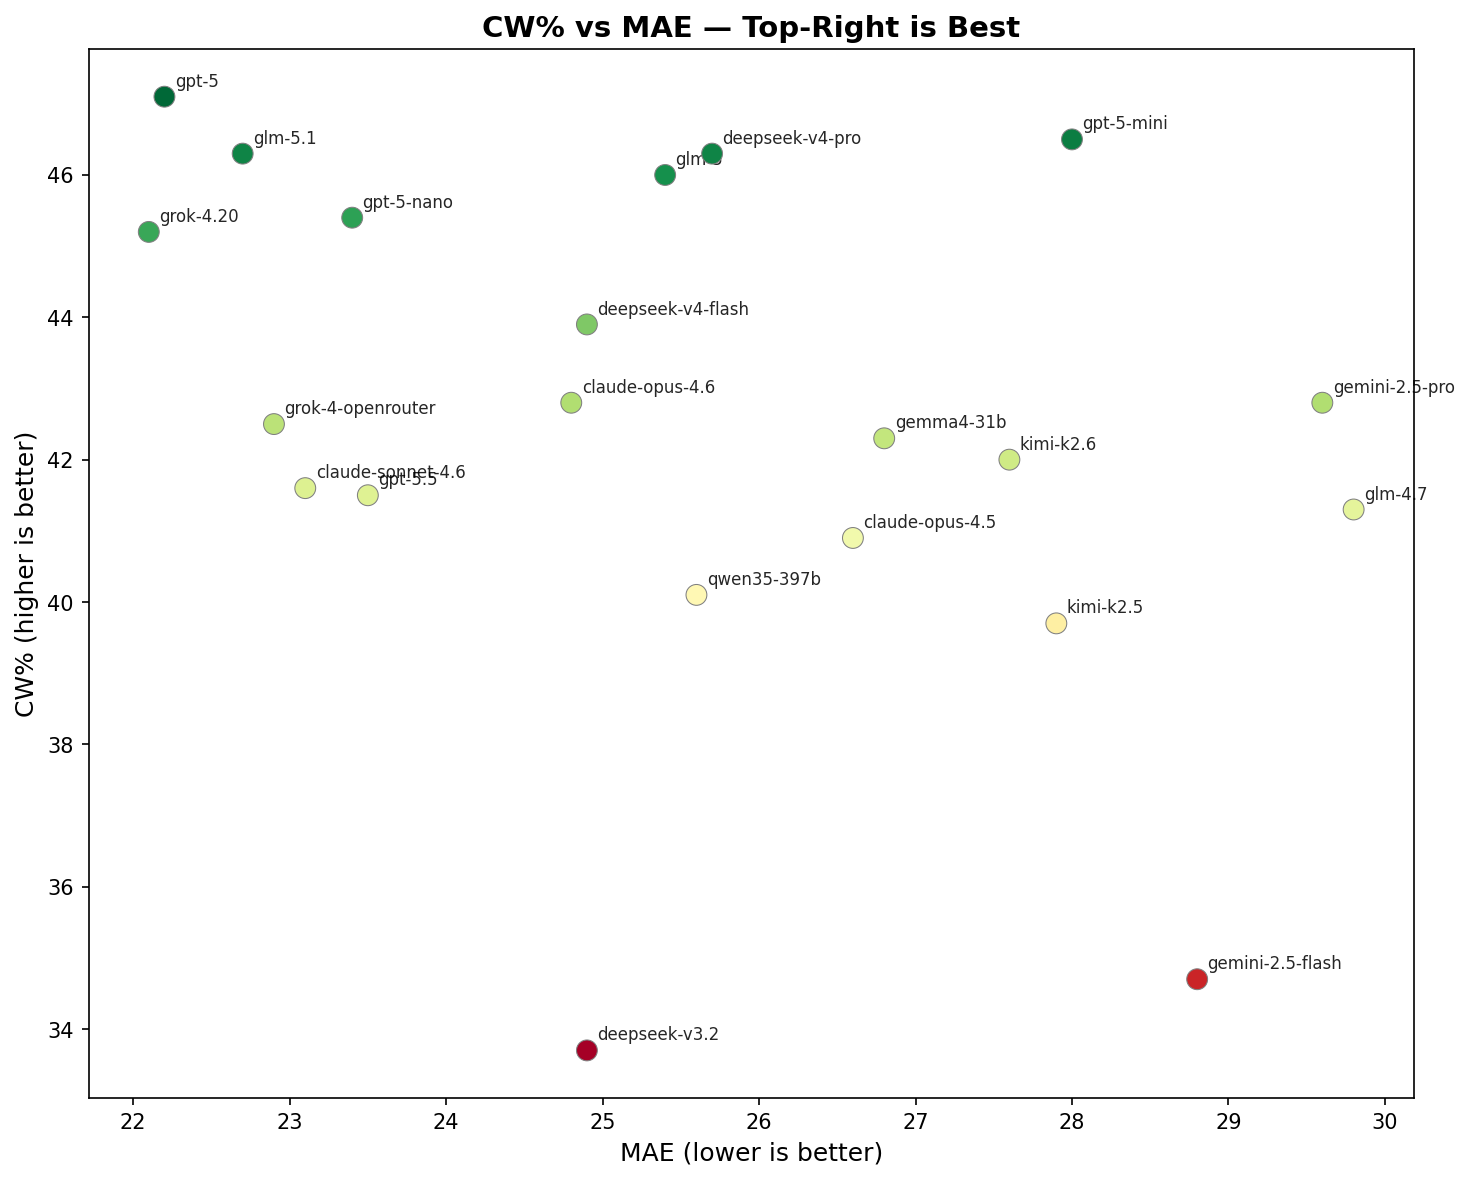
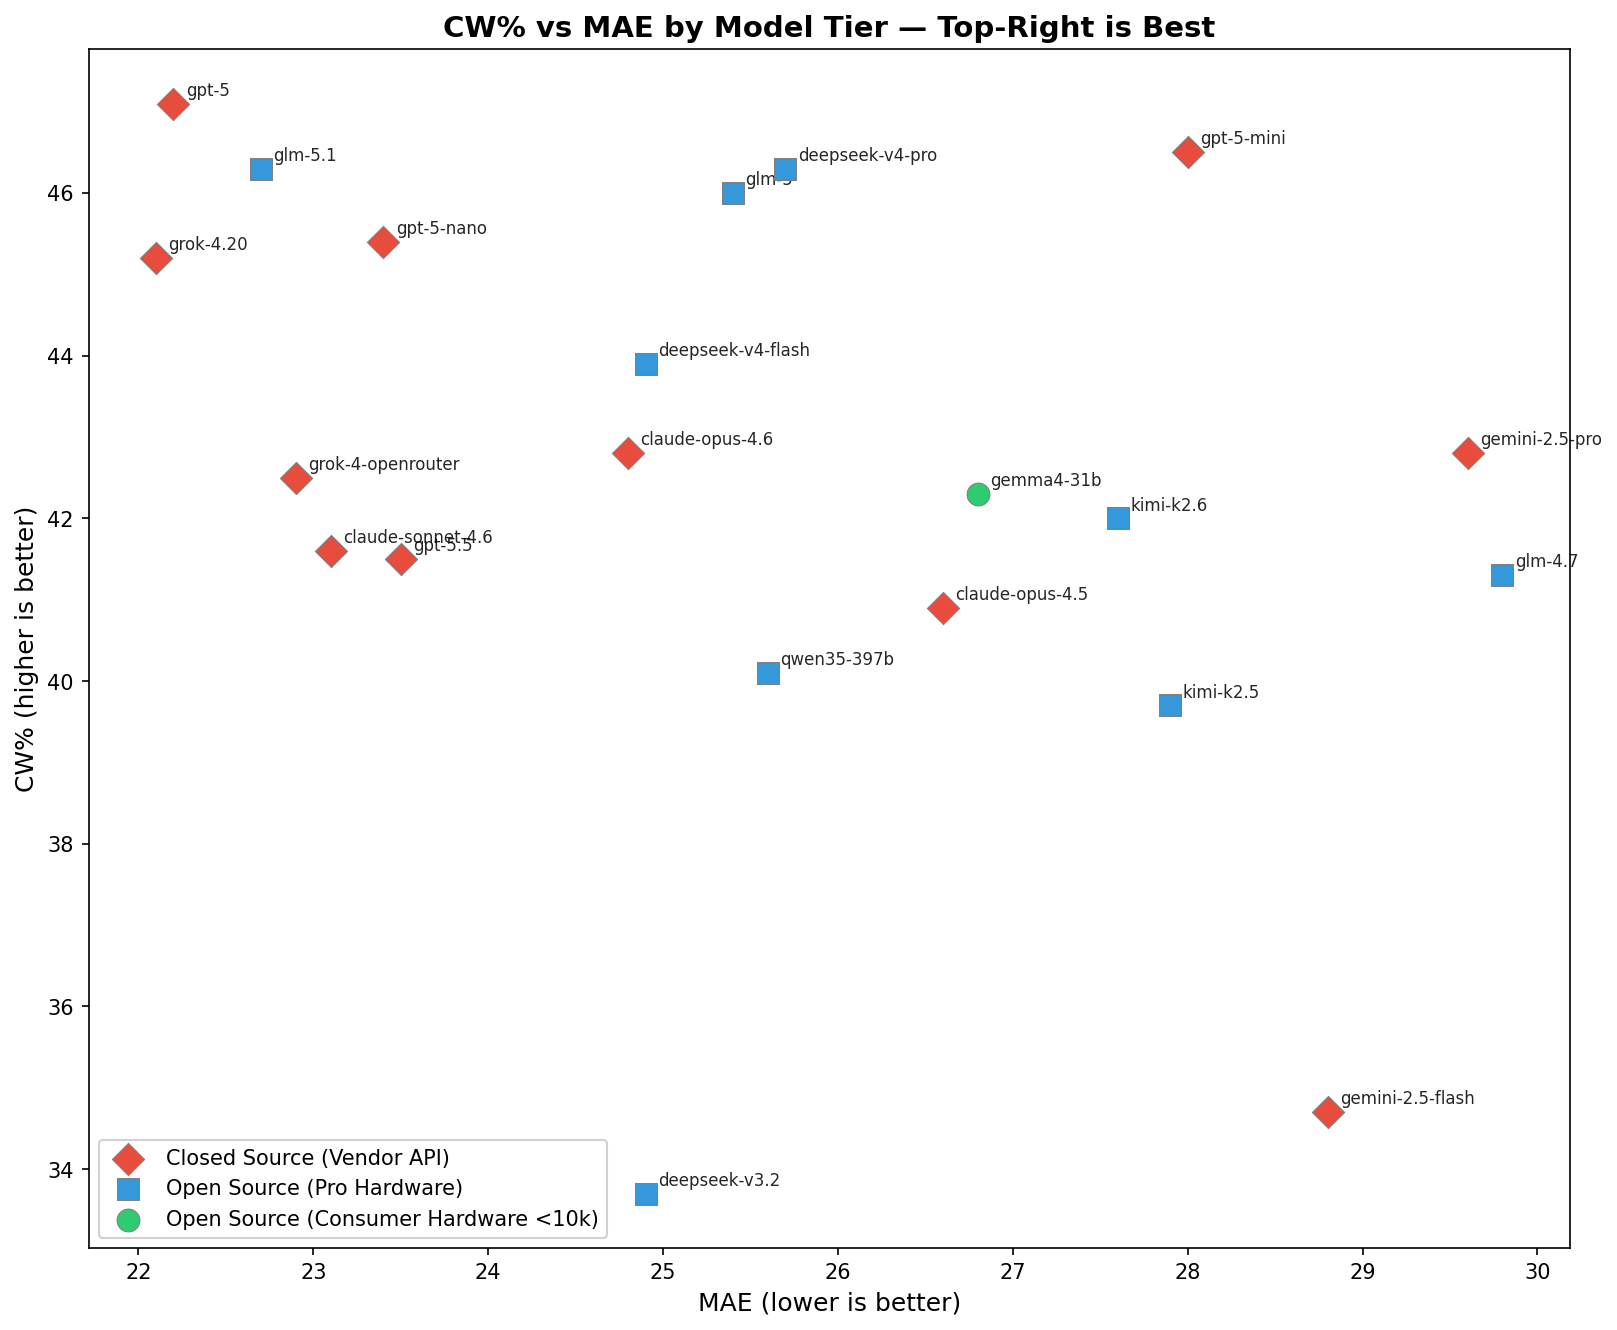
Add model tier categories and per-tier charts
- 3 tiers: Closed Source (vendor APIs), Open Source Pro, Open Source Consumer (<10k)
- Combined charts now color-coded and marker-differentiated by tier
- 6 new per-tier charts (CW% and MAE for each tier)
- Added model_tiers.json for tier definitions

diff --git a/scripts/generate_charts.py b/scripts/generate_charts.py
@@ -1,28 +1,27 @@
 #!/usr/bin/env python3
-"""Generate leaderboard charts for THOR AI Benchmarks."""
+"""Generate leaderboard charts for THOR AI Benchmarks with model tier markers."""
 
 import json
 import csv
 import sys
 from pathlib import Path
 
-try:
-    import matplotlib
-    matplotlib.use('Agg')
-    import matplotlib.pyplot as plt
-    import matplotlib.ticker as ticker
-    import numpy as np
-except ImportError:
-    print("matplotlib + numpy required: pip install matplotlib numpy")
-    sys.exit(1)
+import matplotlib
+matplotlib.use('Agg')
+import matplotlib.pyplot as plt
+import matplotlib.patches as mpatches
+import numpy as np
 
-# Load data
-combined_dir = Path(__file__).parent.parent / "combined"
+# Paths
+repo_root = Path(__file__).resolve().parent.parent
+combined_dir = repo_root / "combined"
 csv_path = combined_dir / "leaderboard.csv"
 json_path = combined_dir / "leaderboard.json"
-charts_dir = Path(__file__).parent.parent / "charts"
+charts_dir = repo_root / "charts"
 charts_dir.mkdir(exist_ok=True)
+tiers_path = Path(__file__).resolve().parent / "model_tiers.json"
 
+# Load data
 if json_path.exists():
     with open(json_path) as f:
         models = json.load(f)
@@ -36,7 +35,18 @@ else:
     print("No leaderboard data found")
     sys.exit(1)
 
-# Convert types
+# Load tiers
+with open(tiers_path) as f:
+    tiers_config = json.load(f)["tiers"]
+
+# Build tier lookup
+tier_lookup = {}
+tier_names = list(tiers_config.keys())
+for tier_key, tier_data in tiers_config.items():
+    for m in tier_data["models"]:
+        tier_lookup[m] = tier_key
+
+# Convert types and assign tiers
 for m in models:
     m['rank'] = int(m.get('rank', 0))
     m['cw_pct'] = float(m['cw_pct'])
@@ -47,72 +57,162 @@ for m in models:
     m['minor'] = int(m.get('minor', 0))
     m['hard'] = int(m.get('hard', 0))
     m['n'] = int(m.get('n', 0))
+    m['tier'] = tier_lookup.get(m['model'], 'closed_source')
 
 # Sort by CW% descending
 models.sort(key=lambda x: x['cw_pct'], reverse=True)
 
-# ── Chart 1: CW% Leaderboard ──────────────────────────────────
-fig, ax = plt.subplots(figsize=(12, 8))
+def tier_style(tier_key):
+    t = tiers_config[tier_key]
+    return t['color'], t['marker'], t['label']
+
+def tier_models(models_list, tier_key):
+    return [m for m in models_list if m['tier'] == tier_key]
+
+# ── Chart 1: CW% Leaderboard (with tier colors) ──────────────
+fig, ax = plt.subplots(figsize=(14, 9))
 names = [m['model'] for m in models]
 cw = [m['cw_pct'] for m in models]
-colors = plt.cm.RdYlGn([v/100 for v in cw])
+bar_colors = [tiers_config[m['tier']]['color'] for m in models]
 
-bars = ax.barh(range(len(names)), cw, color=colors, edgecolor='white', linewidth=0.5)
+bars = ax.barh(range(len(names)), cw, color=bar_colors, edgecolor='white', linewidth=0.5)
 ax.set_yticks(range(len(names)))
 ax.set_yticklabels(names, fontsize=10)
 ax.invert_yaxis()
 ax.set_xlabel('Confidence-Weighted Score (%)', fontsize=12)
-ax.set_title('THOR Finding Triage — CW% Leaderboard', fontsize=14, fontweight='bold')
+ax.set_title('THOR Finding Triage — CW% Leaderboard by Model Tier', fontsize=14, fontweight='bold')
 ax.set_xlim(0, 55)
 
 for i, (bar, val) in enumerate(zip(bars, cw)):
     ax.text(val + 0.5, i, f'{val:.1f}%', va='center', fontsize=9, fontweight='bold')
 
+# Legend
+legend_patches = [mpatches.Patch(color=tiers_config[t]['color'], label=tiers_config[t]['label']) for t in tier_names]
+ax.legend(handles=legend_patches, loc='lower right', fontsize=10, framealpha=0.9)
+
 plt.tight_layout()
 fig.savefig(charts_dir / 'cw-leaderboard.png', dpi=150, bbox_inches='tight')
-print(f"✓ {charts_dir / 'cw-leaderboard.png'}")
+print(f"✓ cw-leaderboard.png")
 
-# ── Chart 2: CW% vs MAE Scatter ───────────────────────────────
-fig, ax = plt.subplots(figsize=(10, 8))
-cw_vals = [m['cw_pct'] for m in models]
-mae_vals = [m['mae'] for m in models]
-scatter = ax.scatter(mae_vals, cw_vals, s=100, c=cw_vals, cmap='RdYlGn', edgecolors='gray', linewidths=0.5, zorder=5)
+# ── Chart 2: CW% vs MAE Scatter (with tier markers) ───────────
+fig, ax = plt.subplots(figsize=(11, 9))
 
-for m in models:
-    ax.annotate(m['model'], (m['mae'], m['cw_pct']),
-                textcoords="offset points", xytext=(5, 5), fontsize=8,
-                alpha=0.85)
+for tier_key in tier_names:
+    tm = tier_models(models, tier_key)
+    if not tm:
+        continue
+    color, marker, label = tier_style(tier_key)
+    ax.scatter(
+        [m['mae'] for m in tm],
+        [m['cw_pct'] for m in tm],
+        s=120, c=color, marker=marker, label=label,
+        edgecolors='gray', linewidths=0.5, zorder=5
+    )
+    for m in tm:
+        ax.annotate(m['model'], (m['mae'], m['cw_pct']),
+                    textcoords="offset points", xytext=(6, 4), fontsize=8, alpha=0.85)
 
 ax.set_xlabel('MAE (lower is better →)', fontsize=12)
 ax.set_ylabel('CW% (higher is better ↑)', fontsize=12)
-ax.set_title('CW% vs MAE — Top-Right is Best', fontsize=14, fontweight='bold')
-ax.axhline(y=50, color='gray', linestyle='--', alpha=0.3)
+ax.set_title('CW% vs MAE by Model Tier — Top-Right is Best', fontsize=14, fontweight='bold')
+ax.legend(loc='lower left', fontsize=10, framealpha=0.9)
+ax.axhline(y=45, color='gray', linestyle='--', alpha=0.3)
 ax.axvline(x=25, color='gray', linestyle='--', alpha=0.3)
 
 plt.tight_layout()
 fig.savefig(charts_dir / 'cw-vs-mae.png', dpi=150, bbox_inches='tight')
-print(f"✓ {charts_dir / 'cw-vs-mae.png'}")
+print(f"✓ cw-vs-mae.png")
 
-# ── Chart 3: Classification Accuracy Breakdown ──────────────────
-fig, ax = plt.subplots(figsize=(12, 8))
+# ── Chart 3: Classification Breakdown (with tier colors) ──────
+fig, ax = plt.subplots(figsize=(14, 9))
 y_pos = range(len(names))
 exact = [m['exact'] for m in models]
 minor = [m['minor'] for m in models]
 hard = [m['hard'] for m in models]
 
-ax.barh(y_pos, exact, color='#2ecc71', label='Exact', edgecolor='white', linewidth=0.5)
-ax.barh(y_pos, minor, left=exact, color='#f39c12', label='Minor miss', edgecolor='white', linewidth=0.5)
-ax.barh(y_pos, hard, left=[e+m for e,m in zip(exact,minor)], color='#e74c3c', label='Hard miss', edgecolor='white', linewidth=0.5)
+# Use tier color for the exact-match bar, lighter shade for minor, red for hard
+tier_colors_light = {
+    'closed_source': '#F1948A',
+    'open_source_pro': '#85C1E9',
+    'open_source_consumer': '#82E0AA',
+}
+
+ax.barh(y_pos, exact, color=bar_colors, edgecolor='white', linewidth=0.5)
+ax.barh(y_pos, minor, left=exact, color=[tier_colors_light[m['tier']] for m in models], edgecolor='white', linewidth=0.5)
+ax.barh(y_pos, hard, left=[e+m for e,m in zip(exact,minor)], color='#E74C3C', edgecolor='white', linewidth=0.5, alpha=0.7)
 
 ax.set_yticks(y_pos)
 ax.set_yticklabels(names, fontsize=10)
 ax.invert_yaxis()
 ax.set_xlabel('Number of Findings', fontsize=12)
-ax.set_title('Classification Accuracy Breakdown', fontsize=14, fontweight='bold')
-ax.legend(loc='lower right', fontsize=10)
+ax.set_title('Classification Accuracy Breakdown by Model Tier', fontsize=14, fontweight='bold')
+
+# Custom legend
+legend_items = [mpatches.Patch(color=tiers_config[t]['color'], label=tiers_config[t]['label']) for t in tier_names]
+legend_items += [
+    mpatches.Patch(color='gray', label='Exact match'),
+    mpatches.Patch(color='#E74C3C', alpha=0.7, label='Hard miss'),
+]
+ax.legend(handles=legend_items, loc='lower right', fontsize=9, framealpha=0.9)
 
 plt.tight_layout()
 fig.savefig(charts_dir / 'classification-breakdown.png', dpi=150, bbox_inches='tight')
-print(f"✓ {charts_dir / 'classification-breakdown.png'}")
+print(f"✓ classification-breakdown.png")
 
-print(f"\nGenerated 3 charts in {charts_dir}")
+# ── Per-Tier CW% Charts ────────────────────────────────────────
+for tier_key in tier_names:
+    tm = tier_models(models, tier_key)
+    if not tm:
+        continue
+    color, marker, label = tier_style(tier_key)
+    short_name = tier_key.replace('_', '-')
+
+    fig, ax = plt.subplots(figsize=(10, max(4, len(tm) * 0.5 + 1)))
+    tm.sort(key=lambda x: x['cw_pct'], reverse=True)
+    names_t = [m['model'] for m in tm]
+    cw_t = [m['cw_pct'] for m in tm]
+
+    bars = ax.barh(range(len(names_t)), cw_t, color=color, edgecolor='white', linewidth=0.5)
+    ax.set_yticks(range(len(names_t)))
+    ax.set_yticklabels(names_t, fontsize=10)
+    ax.invert_yaxis()
+    ax.set_xlabel('CW%', fontsize=12)
+    ax.set_title(f'{label} — CW%', fontsize=13, fontweight='bold')
+    ax.set_xlim(0, 55)
+
+    for i, (bar, val) in enumerate(zip(bars, cw_t)):
+        ax.text(val + 0.3, i, f'{val:.1f}%', va='center', fontsize=9, fontweight='bold')
+
+    plt.tight_layout()
+    fig.savefig(charts_dir / f'cw-{short_name}.png', dpi=150, bbox_inches='tight')
+    print(f"✓ cw-{short_name}.png")
+
+# ── Per-Tier MAE Charts ────────────────────────────────────────
+for tier_key in tier_names:
+    tm = tier_models(models, tier_key)
+    if not tm:
+        continue
+    color, marker, label = tier_style(tier_key)
+    short_name = tier_key.replace('_', '-')
+
+    fig, ax = plt.subplots(figsize=(10, max(4, len(tm) * 0.5 + 1)))
+    tm.sort(key=lambda x: x['mae'])
+    names_t = [m['model'] for m in tm]
+    mae_t = [m['mae'] for m in tm]
+
+    bars = ax.barh(range(len(names_t)), mae_t, color=color, edgecolor='white', linewidth=0.5, alpha=0.85)
+    ax.set_yticks(range(len(names_t)))
+    ax.set_yticklabels(names_t, fontsize=10)
+    ax.invert_yaxis()
+    ax.set_xlabel('MAE (lower is better)', fontsize=12)
+    ax.set_title(f'{label} — MAE', fontsize=13, fontweight='bold')
+    ax.set_xlim(0, 35)
+
+    for i, (bar, val) in enumerate(zip(bars, mae_t)):
+        ax.text(val + 0.3, i, f'{val:.1f}', va='center', fontsize=9, fontweight='bold')
+
+    plt.tight_layout()
+    fig.savefig(charts_dir / f'mae-{short_name}.png', dpi=150, bbox_inches='tight')
+    print(f"✓ mae-{short_name}.png")
+
+print(f"\nDone — {3 + 2*len(tier_names)} charts in {charts_dir}")